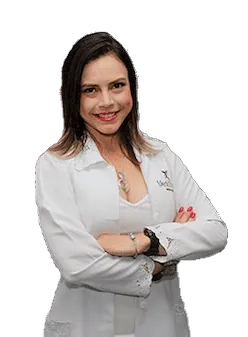
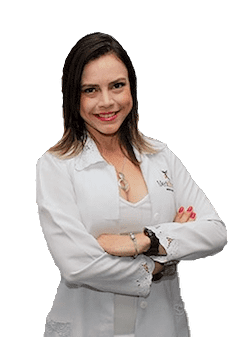
perfil2

diff --git a/index.html b/index.html
@@ -97,7 +97,7 @@
     <div class="w3-content w3-justify w3-text-grey w3-padding-64" id="about">
       <h2 class="w3-text-light-grey" style="text-align: center; margin-bottom: 1em">Sobre mim</h2>
       <div class="w3-half w3-section" style="padding: 1em">
-        <img src="img/perfil2.png" alt="Yara Falcão foto 2">
+        <img src="img/perfil2.webp" alt="Yara Falcão foto 2">
       </div>
       <div class="w3-half w3-section" style="padding: 1em;">
         <p style="margin-top: 3em">
